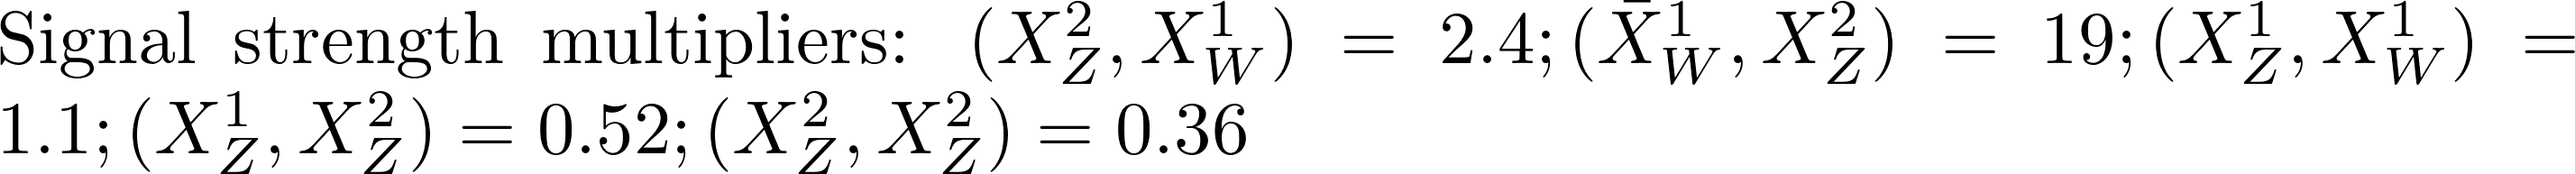
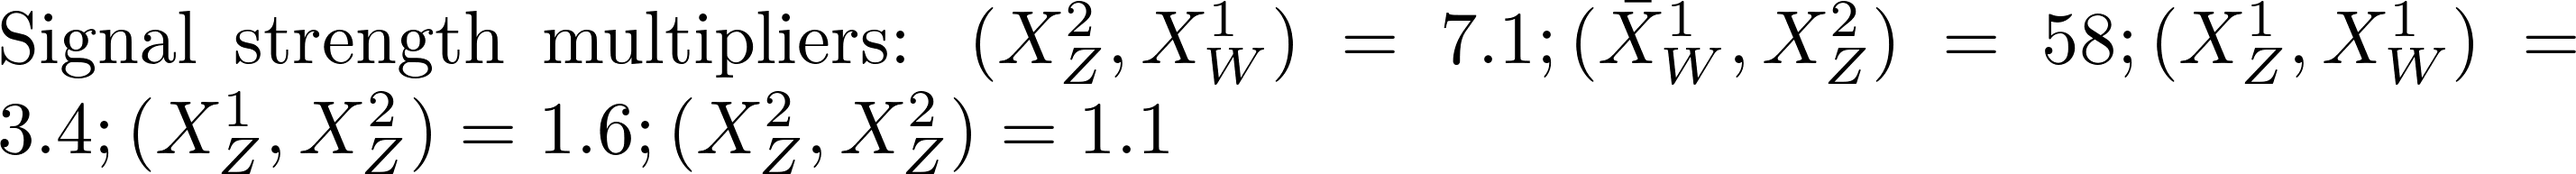
automated update by plotHiscore.py to ewk3_310:     K=24.079 TL=33.72 walkerid=0

diff --git a/protomodels/ewk3_310/index.html b/protomodels/ewk3_310/index.html
@@ -1,20 +1,22 @@
 <html>
 <body>
 <center>
-<table><td><h1>Current best protomodel: <i>K</i>=23.53, <i>TL</i>=27.78</h1><td><img height=60px src=https://smodels.github.io//protomodels/logos/protomodel_lego.png></table>
+<table><td><h1>Current best protomodel: <i>K</i>=24.08, <i>TL</i>=33.72</h1><td><img height=60px src=https://smodels.github.io//protomodels/logos/protomodel_lego.png></table>
 </center>
 <b><a href=./hiscore.slha>ProtoModel</a> <a href=./pmodel.dict>(dict)</a> produced with <a href=https://smodels.github.io//docs/Validation310>database v3.1.0</a>, combination strategy <a href=./matrix.png>aggressive</a> in walker 0 step 1662.</b> <br>
 <table width=80%>
 <tr><td>
-<br><b>2 predictions available. Highest r values are:</b><br><ul>
-<li><a href=https://atlas.web.cern.ch/Atlas/GROUPS/PHYSICS/PAPERS/EXOT-2018-06/>ATLAS-EXOT-2018-06</a>:em:TChiZISRqq,TChiISR r=1.38, r<sub>exp</sub>=1.49<br>
-<li><a href=http://cms-results.web.cern.ch/cms-results/public-results/publications/EXO-20-004/>CMS-EXO-20-004</a>:em:TChiZISRqq,TChiISR r=0.28, r<sub>exp</sub>=0.46<br>
+<br><b>5 predictions available. Highest r values are:</b><br><ul>
+<li><a href=http://cms-results.web.cern.ch/cms-results/public-results/publications/SUS-16-048/index.html>CMS-SUS-16-048</a>:em:TChiWZoff r=15.31, r<sub>exp</sub>=12.91<br>
+<li><a href=https://atlas.web.cern.ch/Atlas/GROUPS/PHYSICS/PAPERS/SUSY-2018-16/>ATLAS-SUSY-2018-16-hino</a>:em:TChiZoff r=13.72, r<sub>exp</sub>=13.00<br>
+<li><a href=https://atlas.web.cern.ch/Atlas/GROUPS/PHYSICS/PAPERS/SUSY-2018-16/>ATLAS-SUSY-2018-16</a>:em:TChiWZoff r=3.93, r<sub>exp</sub>=3.93<br>
+<li><a href=https://atlas.web.cern.ch/Atlas/GROUPS/PHYSICS/PAPERS/EXOT-2018-06/>ATLAS-EXOT-2018-06</a>:em:TChiWISRll,TChiZISRll,TChiISR,TChiZISRqq r=2.40, r<sub>exp</sub>=2.48<br>
 </ul>
-<td><img width=600px src=./texdoc.png?1754821634>
-<br><span style='font-size: smaller; color: darkred;'>Last updated: Sun Aug 10 12:27:14 2025</span>
+<td><img width=600px src=./texdoc.png?1754845475>
+<br><span style='font-size: smaller; color: darkred;'>Last updated: Sun Aug 10 19:04:35 2025</span>
 </table><table style="width:80%">
-<td width=45%><img height=580px src=./ruler.png?1754821634><td width=55%><img height=220px src=./decays.png?1754821634>
-<font size=-3><iframe type="text/html" height="350px" width="100%" frameborder="0" src="./rawnumbers.html?1754821634"></iframe></font>
+<td width=45%><img height=580px src=./ruler.png?1754845475><td width=55%><img height=220px src=./decays.png?1754845475>
+<font size=-3><iframe type="text/html" height="350px" width="100%" frameborder="0" src="./rawnumbers.html?1754845475"></iframe></font>
 </table>
 </body>
 </html>

diff --git a/protomodels/ewk3_310/rawnumbers.html b/protomodels/ewk3_310/rawnumbers.html
@@ -1,8 +1,9 @@
 <table>
 <tr><th>Analysis Name</th><th>Type</th><th>Dataset</th><th>Topos</th><th>Observed</th><th>Expected</th><th>Approx &sigma;</th><th>Particles</th>
 </tr>
-<tr><td><a href=http://cms-results.web.cern.ch/cms-results/public-results/publications/EXO-20-004/>CMS-EXO-20-004</a></td><td>comb</td> <td>-</td><td>TChiISR, TChiZISRqq</td><td> 2e+02 fb </td><td> 1e+02 fb</td><td style="text-align:right">4.6 &sigma;</td><td style="text-align:right">X<sup>1</sup><sub>W</sub>, X<sup>1</sup><sub>Z</sub>, X<sup>2</sup><sub>Z</sub></td></tr>
-<tr><td><a href=https://atlas.web.cern.ch/Atlas/GROUPS/PHYSICS/PAPERS/EXOT-2018-06/>ATLAS-EXOT-2018-06</a></td><td>em</td> <td>EM10</td><td>TChiISR, TChiZISRqq</td><td>413</td><td>359.00 +/- 10.00</td><td style="text-align:right">2.5 &sigma;</td><td style="text-align:right">X<sup>1</sup><sub>W</sub>, X<sup>1</sup><sub>Z</sub>, X<sup>2</sup><sub>Z</sub></td></tr>
+<tr><td><a href=http://cms-results.web.cern.ch/cms-results/public-results/publications/EXO-20-004/>CMS-EXO-20-004</a></td><td>comb</td> <td>-</td><td>TChiISR, TChiWISRll, TChiZISRll, TChiZISRqq</td><td> 2e+02 fb </td><td> 2e+02 fb</td><td style="text-align:right">4.5 &sigma;</td><td style="text-align:right">X<sup>1</sup><sub>W</sub>, X<sup>1</sup><sub>Z</sub>, X<sup>2</sup><sub>Z</sub></td></tr>
+<tr><td><a href=https://atlas.web.cern.ch/Atlas/GROUPS/PHYSICS/PAPERS/SUSY-2018-16/>ATLAS-SUSY-2018-16-hino</a></td><td>em</td> <td>SR_ewk_2l_med</td><td>TChiZoff</td><td>170</td><td>112.40 +/- 12.60</td><td style="text-align:right">3.3 &sigma;</td><td style="text-align:right">X<sup>1</sup><sub>Z</sub>, X<sup>2</sup><sub>Z</sub></td></tr>
+<tr><td><a href=https://atlas.web.cern.ch/Atlas/GROUPS/PHYSICS/PAPERS/EXOT-2018-06/>ATLAS-EXOT-2018-06</a></td><td>em</td> <td>EM10</td><td>TChiISR, TChiWISRll, TChiZISRll, TChiZISRqq</td><td>413</td><td>359.00 +/- 10.00</td><td style="text-align:right">2.5 &sigma;</td><td style="text-align:right">X<sup>1</sup><sub>W</sub>, X<sup>1</sup><sub>Z</sub>, X<sup>2</sup><sub>Z</sub></td></tr>
 </table>
 <table style='color:grey'>
 <tr><th>Not in Best Combo</th><th>Type</th><th>Dataset</th><th>Topos</th><th>Observed</th><th>Expected</th><th>Approx &sigma;</th><th>Particles</th></table>
